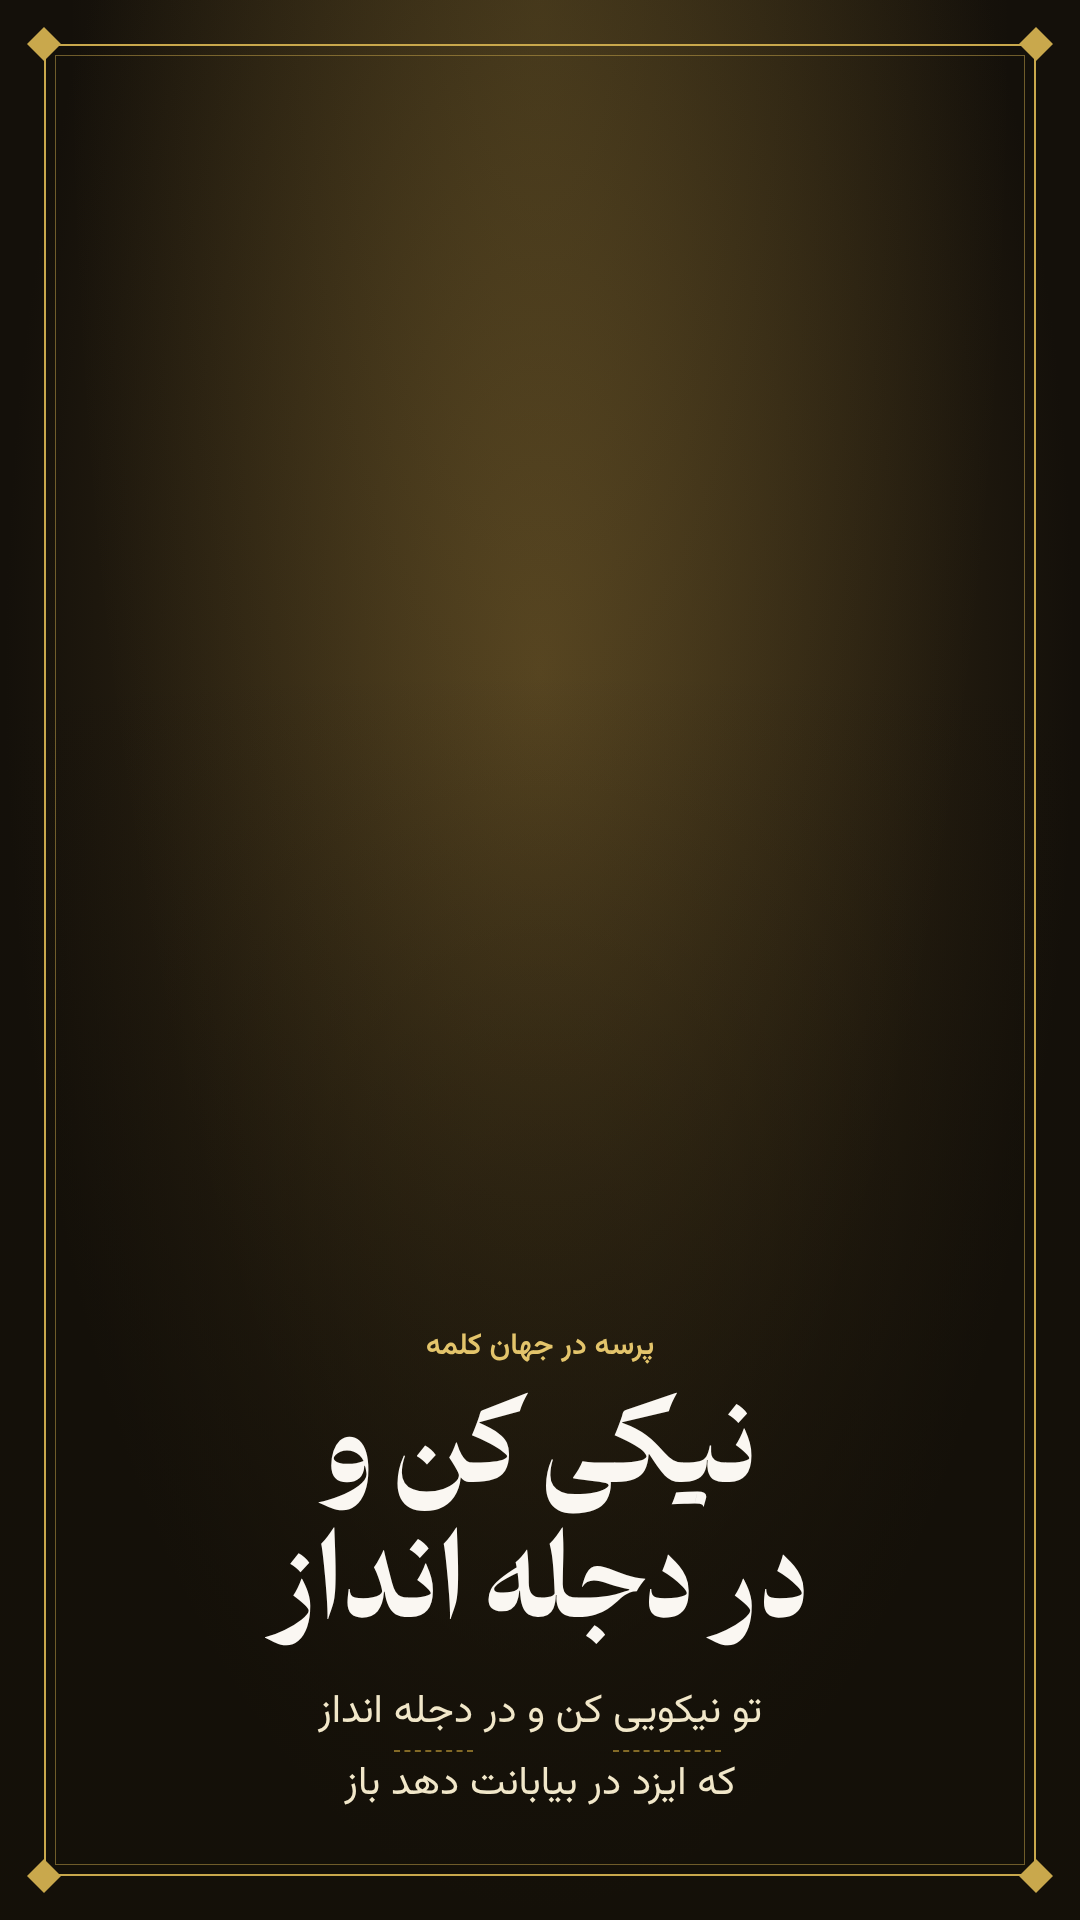
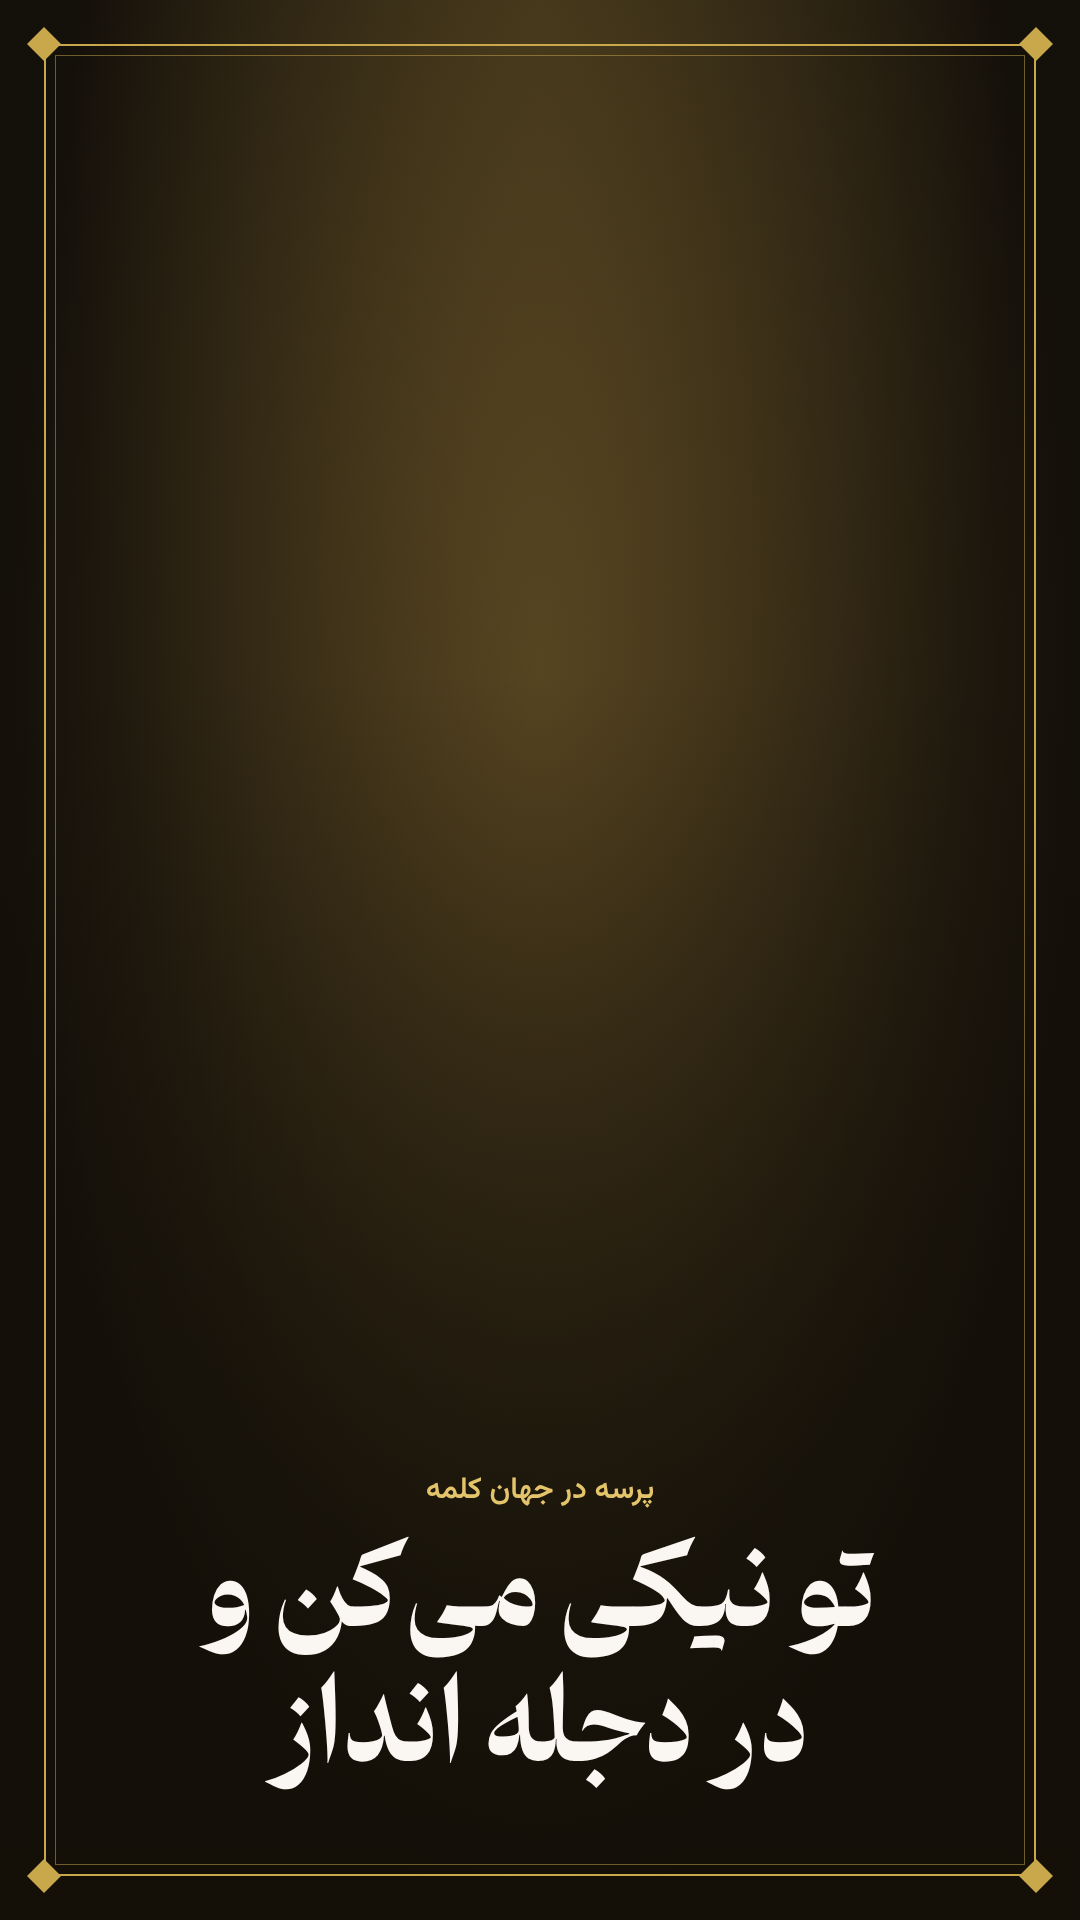
post21: revisions per feedback, X slides 1,3,4,8
Claude-Session: https://claude.ai/code/session_01KbXFhZ5gVHvAJQxmARukFF

Changed region(s): [[0.1833, 0.6875, 0.825, 0.9375]]

diff --git a/tools/dejleh/build.py b/tools/dejleh/build.py
@@ -50,7 +50,7 @@ S=[
  dict(k='big',text='داستانت را در دیوان<br>منتشر کن؛ راهش را<br>خودش پیدا میکند.<br><span class="lt" style="display:block;font-size:.6em;margin-top:.4em;text-align:center;color:#836a27">diwan.center</span>'),
 ]
 
-N=8; XS=[1,3,5,8]
+N=8; XS=[1,3,4,8]
 assert len(S)==N
 SIZES={'st':(1080,1920),'ig':(1080,1350),'tg':(1280,720),'x':(1600,900)}
 CSS=DORAN+"""
